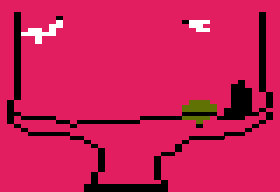
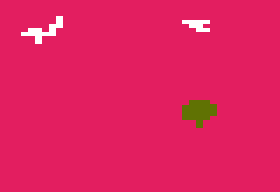
climb: update how peasant collision detection works
separate it out to separate 256 byte field, away from priorities

takes a bit more space but also simplifies and a bit faster?

Changed region(s): [[0.0, 0.0625, 1.0, 1.0], [0.6286, 0.0938, 0.6857, 0.125], [0.2, 0.0625, 0.2286, 0.125]]

diff --git a/utils/gr-utils/png2collision.c b/utils/gr-utils/png2collision.c
@@ -1,0 +1,89 @@
+/* png2collision */
+
+/* takes png file and generates the 240 byte table lookup info */
+/* for collision of sprites in the Peasant's Quest game */
+/* a color of 0 indicates there should be a collision */
+
+/* data organized in 6 rows of 40 bytes */
+
+#include <stdio.h>
+#include <stdlib.h>
+
+#include <unistd.h>
+#include <stdlib.h>
+#include <stdio.h>
+#include <string.h>
+#include <stdarg.h>
+
+#include "loadpng.h"
+
+
+//static short gr_offsets[]={
+//	0x400,0x480,0x500,0x580,0x600,0x680,0x700,0x780,
+//	0x428,0x4a8,0x528,0x5a8,0x628,0x6a8,0x728,0x7a8,
+//	0x450,0x4d0,0x550,0x5d0,0x650,0x6d0,0x750,0x7d0,
+//};
+
+
+
+/* Converts a PNG to a GR file you can BLOAD to 0x400		*/
+/* HOWEVER you *never* want to do this in real life		*/
+/* as it will clobber important values in the memory holes	*/
+
+int main(int argc, char **argv) {
+
+	int row=0;
+	int col=0;
+//	int x;
+	unsigned char out_buffer[1024];
+
+	unsigned char *image;
+	int xsize,ysize;
+	FILE *outfile;
+
+	if (argc<3) {
+		fprintf(stderr,"Usage:\t%s INFILE OUTFILE\n\n",argv[0]);
+		exit(-1);
+	}
+
+	outfile=fopen(argv[2],"w");
+	if (outfile==NULL) {
+		fprintf(stderr,"Error!  Could not open %s\n",argv[2]);
+		exit(-1);
+	}
+
+	if (loadpng(argv[1],&image,&xsize,&ysize,PNG_WHOLETHING)<0) {
+		fprintf(stderr,"Error loading png!\n");
+		exit(-1);
+	}
+
+	fprintf(stderr,"Loaded image %d by %d\n",xsize,ysize);
+
+
+	memset(out_buffer,0,240);
+
+	int temp_byte;
+
+	for(row=0;row<6;row++) {
+		for(col=0;col<40;col++) {
+			temp_byte=0;
+			if ((image[((row*4)+0)*xsize+col]&0xf)==0) temp_byte|=0x80;
+			if (((image[((row*4)+0)*xsize+col]>>4)&0xf)==0) temp_byte|=0x40;
+
+			if ((image[((row*4)+1)*xsize+col]&0xf)==0) temp_byte|=0x20;
+			if (((image[((row*4)+1)*xsize+col]>>4)&0xf)==0) temp_byte|=0x10;
+
+			if ((image[((row*4)+2)*xsize+col]&0xf)==0) temp_byte|=0x08;
+			if (((image[((row*4)+2)*xsize+col]>>4)&0xf)==0) temp_byte|=0x04;
+
+			if ((image[((row*4)+3)*xsize+col]&0xf)==0) temp_byte|=0x02;
+			if (((image[((row*4)+3)*xsize+col]>>4)&0xf)==0) temp_byte|=0x01;
+
+			fputc( temp_byte,outfile);
+		}
+	}
+
+	fclose(outfile);
+
+	return 0;
+}
